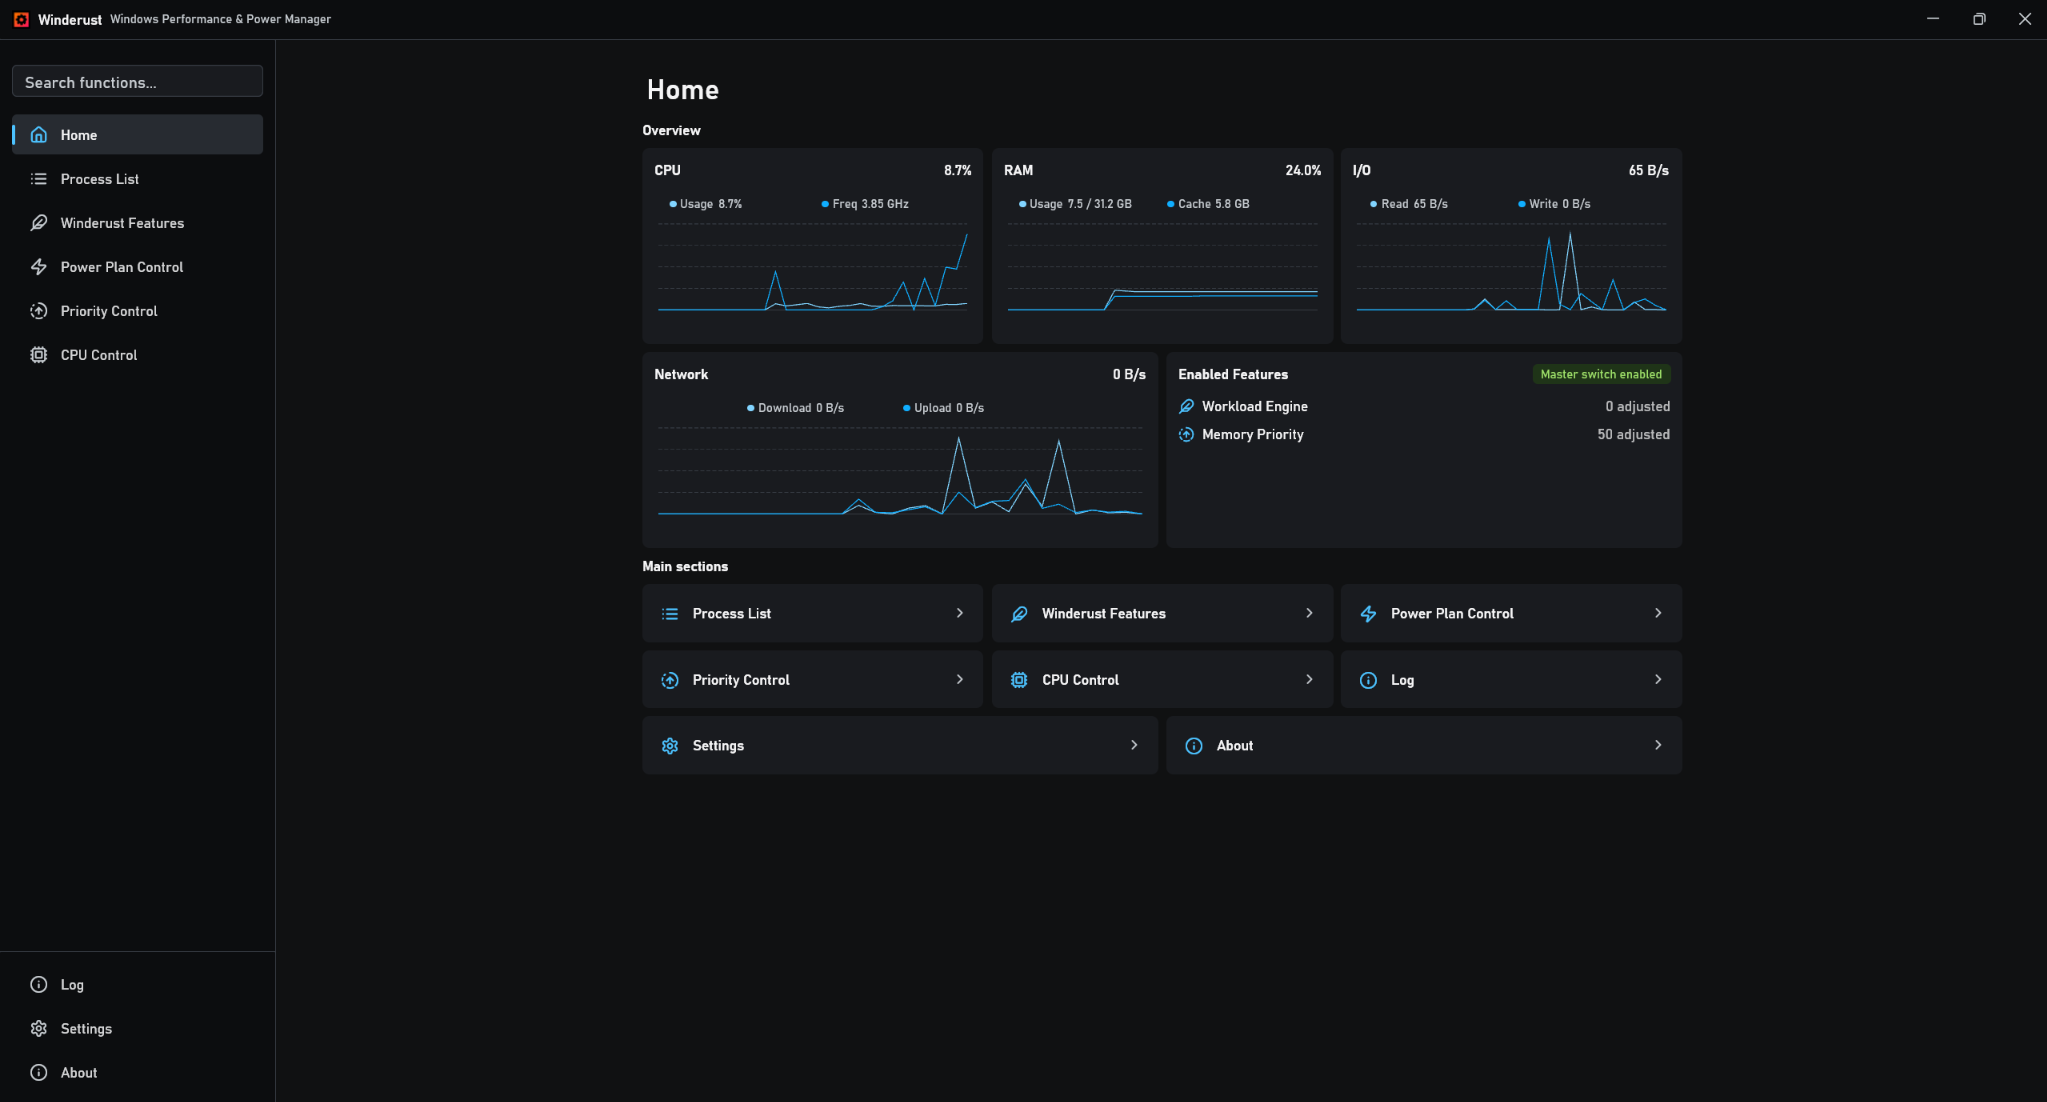
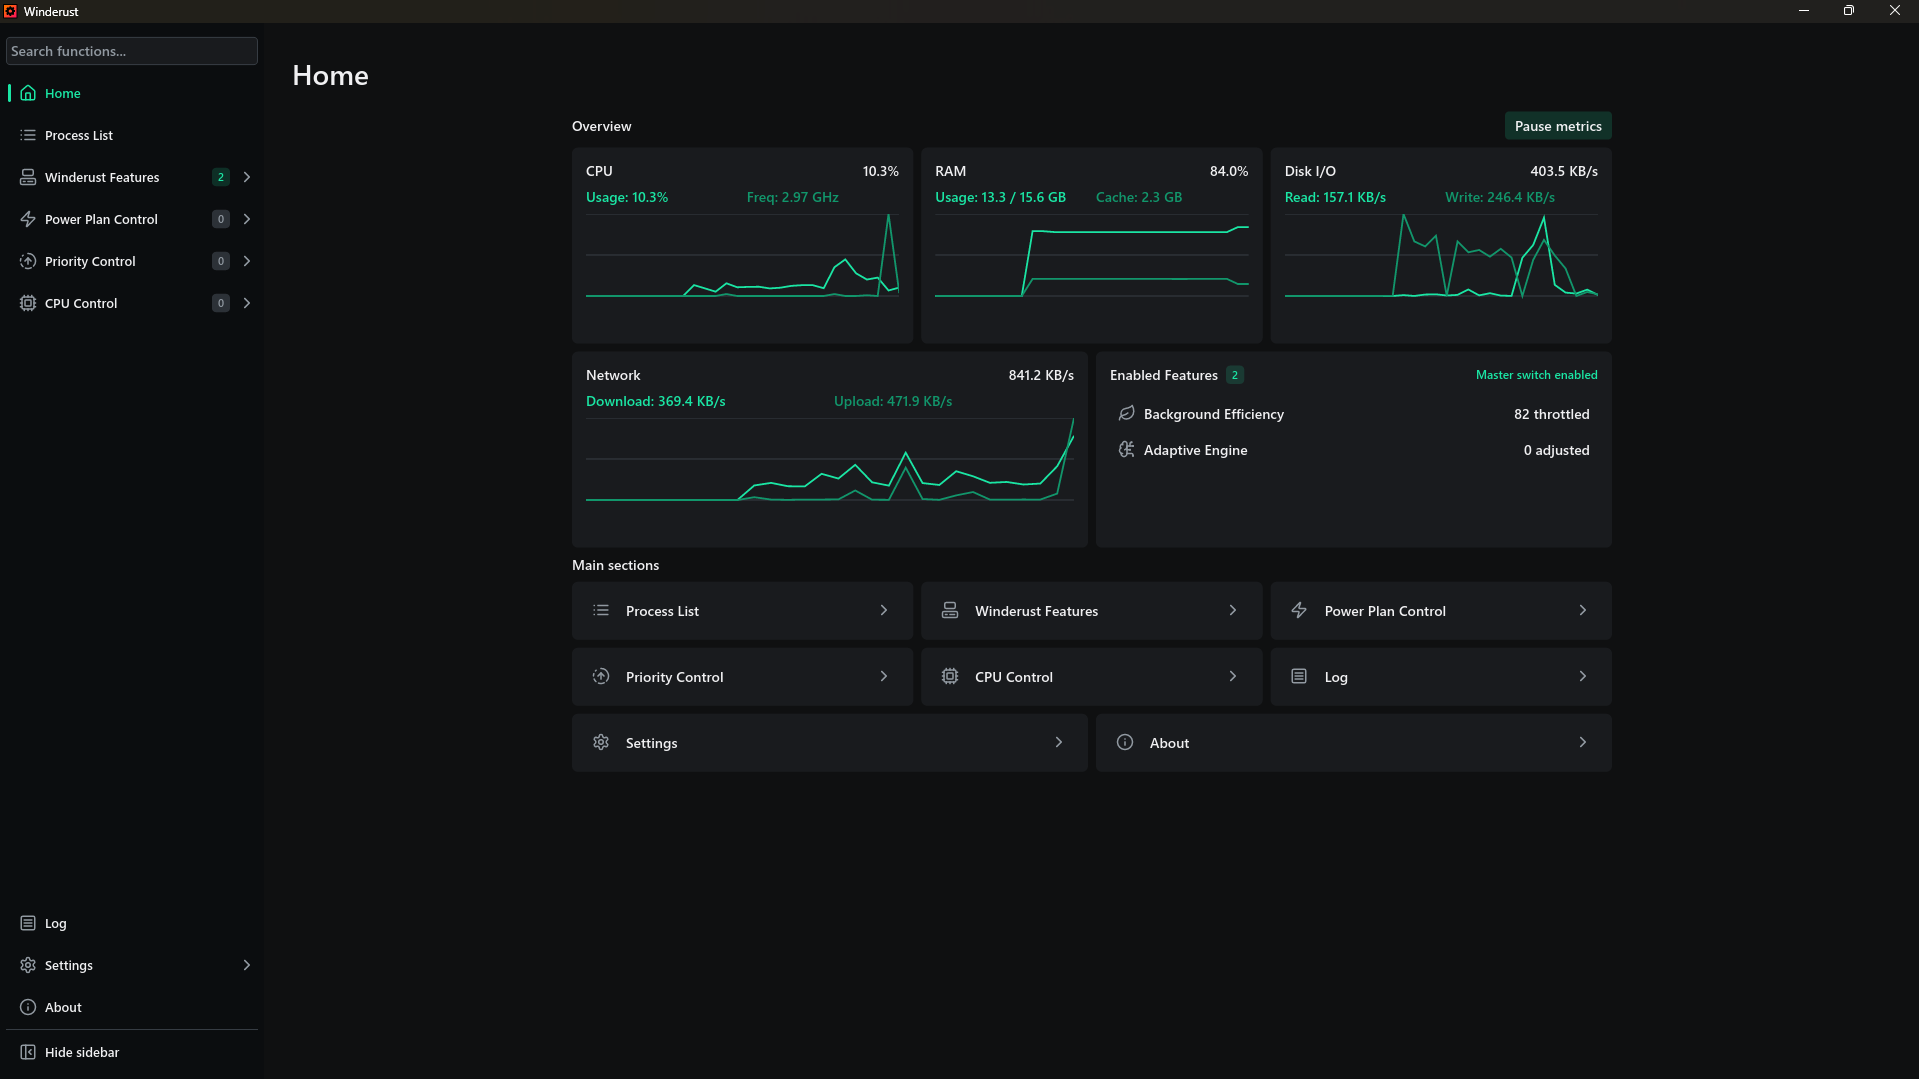
chore(release): prepare v0.9.1-alpha

diff --git a/build.rs b/build.rs
@@ -4,7 +4,8 @@ fn main() {
     if std::env::var("CARGO_CFG_WINDOWS").is_ok() {
         let version = std::env::var("CARGO_PKG_VERSION").unwrap_or_else(|_| "0.1.0".into());
         let mut parts = version
-            .split('.')
+            .split(['.', '-'])
+            .take(3)
             .map(|part| part.parse::<u16>().unwrap_or(0))
             .chain(std::iter::repeat(0));
         let file_version = format!(

diff --git a/CHANGELOG.md b/CHANGELOG.md
@@ -7,6 +7,29 @@ and this project adheres to [Semantic Versioning](https://semver.org).
 
 ## Unreleased
 
+## 0.9.1-alpha - 2026-10-02
+
+### Added
+
+- Make the native tray menu follow Windows light and dark themes.
+
+### Changed
+
+- Combine matching Action Log entries across an entire batch into one row with the affected processes.
+- Place Plugged In and On Battery controls below the breadcrumb, with Feature info on the right.
+- Keep the Exiting modal visible throughout restoration and recovery; send shutdown errors to diagnostic logs.
+
+### Fixed
+
+- Keep the numeric Windows executable version aligned with the prerelease patch version.
+- Preserve thread priorities that Windows cannot restore, avoiding invalid-parameter failures.
+- Enable the required I/O Priority privilege when Windows permits it and suppress repeated permission failures.
+- Adapt the shared layout to window size and DPI, and prevent repeated window enlargement when moving between monitors with different scaling.
+- Use the Winderust icon in the title bar and Alt+Tab.
+- Make process tooltips reliable during hovering and scrolling, make sidebar tooltips opaque, and label the collapsed side panel.
+- Center checkbox ticks and make them easier to see.
+- Stop global worker errors from flooding every feature status sidebar while retaining diagnostic logging.
+
 ## 0.9.0-alpha - 2026-09-28
 
 ### Added
